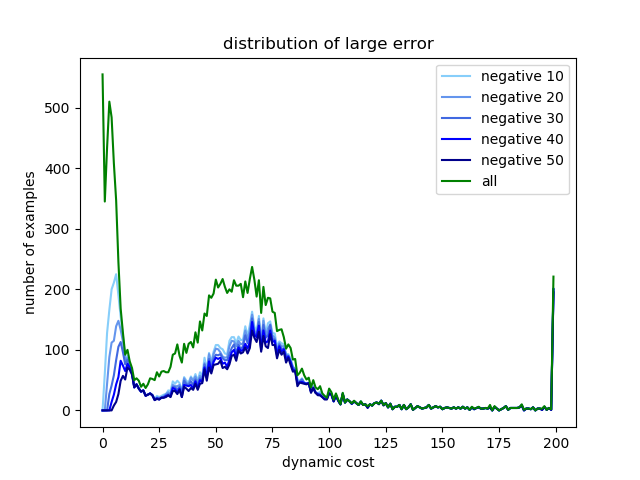
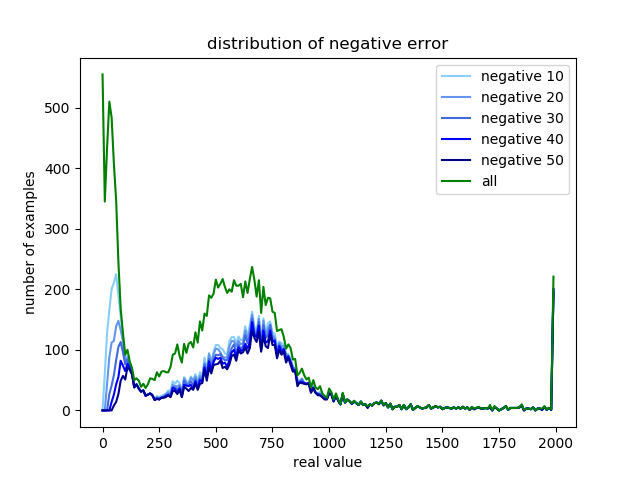
n

diff --git a/scripts/neural_network/p1p2/analyze_error_4.py b/scripts/neural_network/p1p2/analyze_error_4.py
@@ -2,6 +2,8 @@ import pickle, torch, os, IPython
 import torch.nn as nn
 import numpy as np
 import pprint
+import matplotlib
+matplotlib.use('agg')
 import matplotlib.pyplot as plt
 
 from torch.utils import data
@@ -10,7 +12,7 @@ from model_v3 import Model
 from special_dataset import Dataset
 from train import loss_across_epoch
 
-model_version = 'model_v3_00001_Adam_Weighted_Loss'
+model_version = 'model_v3_00005'
 
 def restore_checkpoint(model, checkpoint_dir):
     files = [file for file in os.listdir(checkpoint_dir)
@@ -30,7 +32,7 @@ def restore_checkpoint(model, checkpoint_dir):
     checkpoint = torch.load(filename)
 
     try:
-        model.load_state_dict(checkpoint['model_state_dict'])
+        model.load_state_dict(checkpoint['state_dict'])
         print('Successfully load the model from epoch {}'.format(requested_epoch))
     except:
         print('Fail to load the model from epoch {}'.format(requested_epoch))
@@ -96,19 +98,19 @@ def main():
     all_examples_hist, _ = np.histogram(all_examples_clipped, bins=np.arange(0, 2010, 10))
     
     plt.figure()
-    plt.plot(range(200), negative_10_hist, '-', label='negative 10', color='lightskyblue')
-    plt.plot(range(200), negative_20_hist, '-', label='negative 20', color='cornflowerblue')
-    plt.plot(range(200), negative_30_hist, '-', label='negative 30', color='royalblue')
-    plt.plot(range(200), negative_40_hist, '-', label='negative 40', color='blue')
-    plt.plot(range(200), negative_50_hist, '-', label='negative 50', color='darkblue')
+    plt.plot(np.arange(0, 2000, 10), negative_10_hist, '-', label='negative 10', color='lightskyblue')
+    plt.plot(np.arange(0, 2000, 10), negative_20_hist, '-', label='negative 20', color='cornflowerblue')
+    plt.plot(np.arange(0, 2000, 10), negative_30_hist, '-', label='negative 30', color='royalblue')
+    plt.plot(np.arange(0, 2000, 10), negative_40_hist, '-', label='negative 40', color='blue')
+    plt.plot(np.arange(0, 2000, 10), negative_50_hist, '-', label='negative 50', color='darkblue')
 
-    plt.plot(range(200), all_examples_hist, '-', label='all', color='green')
+    plt.plot(np.arange(0, 2000, 10), all_examples_hist, '-', label='all', color='green')
     
-    plt.title('distribution of large error')
-    plt.xlabel('dynamic cost')
+    plt.title('distribution of negative error')
+    plt.xlabel('real value')
     plt.ylabel('number of examples')
     plt.legend()
-    plt.savefig('negative_weighted_loss.png')
+    plt.savefig('loss.png')
     
 
 

diff --git a/scripts/neural_network/p1p2/analyze_error_3.py b/scripts/neural_network/p1p2/analyze_error_3.py
@@ -12,7 +12,7 @@ from model_v3 import Model
 from special_dataset import Dataset
 from train import loss_across_epoch
 
-model_version = 'model_v3_00001_Adam_Weighted_Loss'
+model_version = 'model_v3_00005'
 
 def restore_checkpoint(model, checkpoint_dir):
     files = [file for file in os.listdir(checkpoint_dir)
@@ -32,7 +32,7 @@ def restore_checkpoint(model, checkpoint_dir):
     checkpoint = torch.load(filename)
 
     try:
-        model.load_state_dict(checkpoint['model_state_dict'])
+        model.load_state_dict(checkpoint['state_dict'])
         print('Successfully load the model from epoch {}'.format(requested_epoch))
     except:
         print('Fail to load the model from epoch {}'.format(requested_epoch))
@@ -48,7 +48,7 @@ def main():
     with open('/mnt/big_narstie_data/chenxi/data/ground_truth_p1p2/partition', 'r') as file:
         partition = pickle.load(file)
     print('number of test examples: {}'.format(len(partition['test'])))
-    test_dataset = Dataset(p2_ddyn, partition['test'][:10])
+    test_dataset = Dataset(p2_ddyn, partition['test'])
     test_generator = data.DataLoader(test_dataset, batch_size=512, shuffle=True, num_workers=4)
 
     all_examples = []
@@ -110,7 +110,7 @@ def main():
     plt.xlabel('real value')
     plt.ylabel('number of examples')
     plt.legend()
-    plt.savefig('positive_weighted_loss.png')
+    plt.savefig('positive.png')
     
 
 
